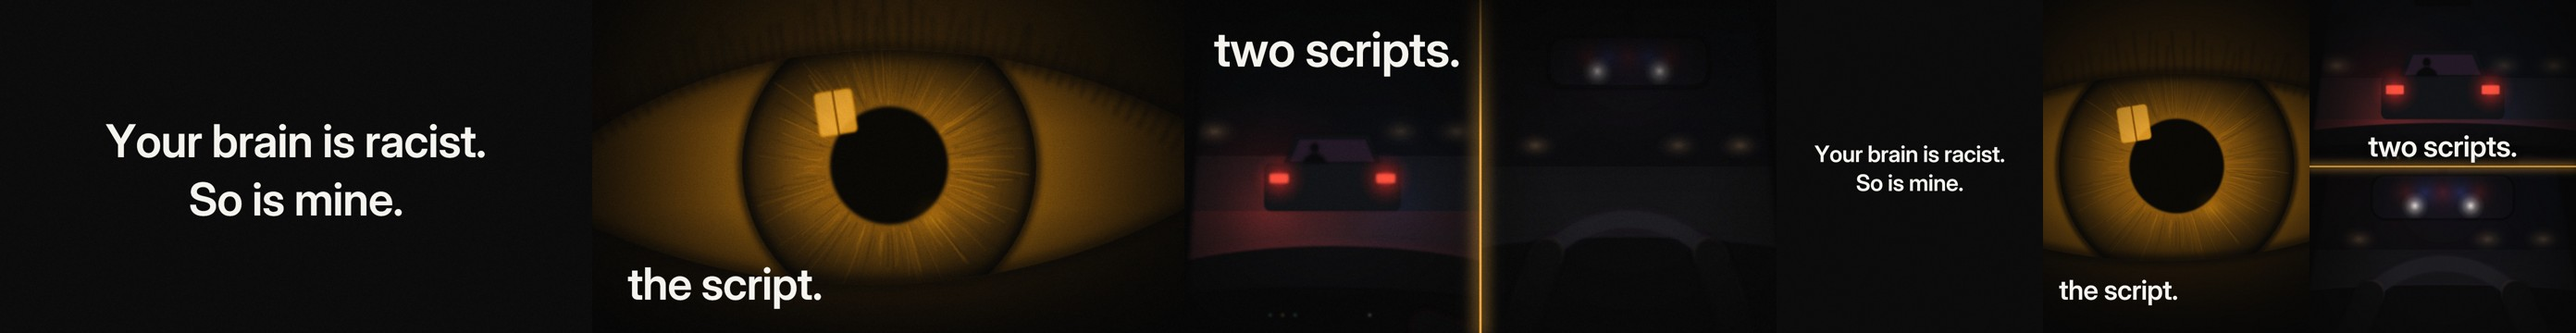
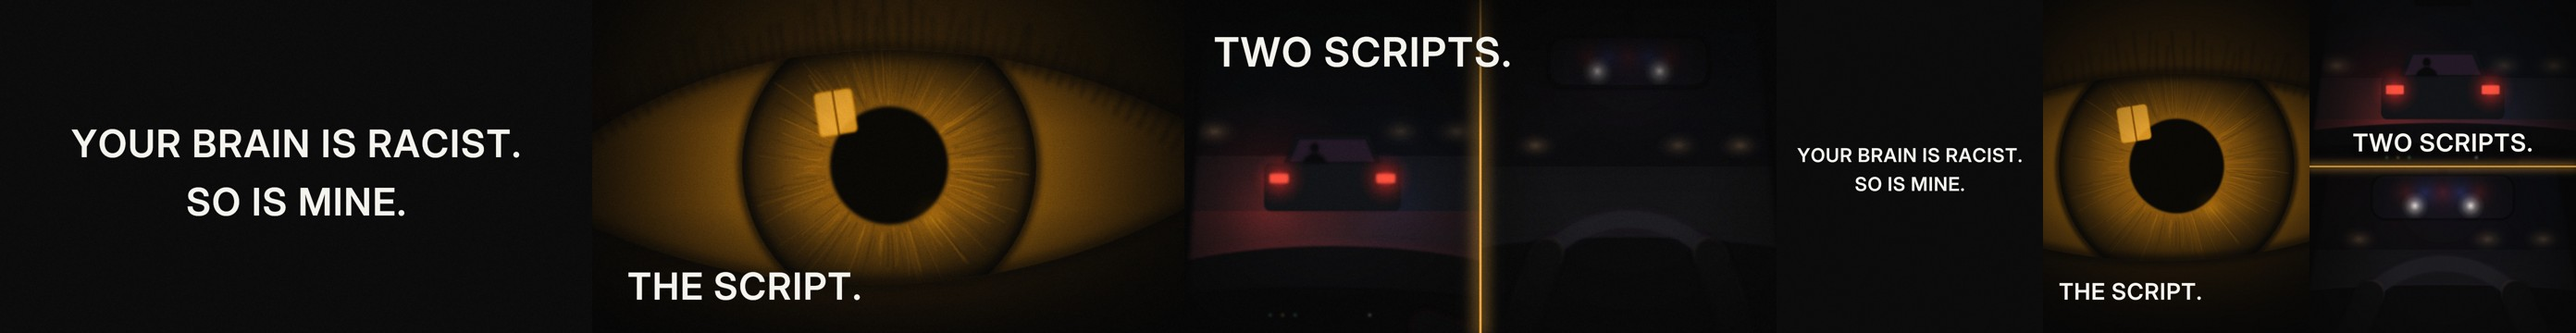
Expressive narration builder (Chatterbox, paragraph groups, per-group word check); all-caps thumbnails
Claude-Session: https://claude.ai/code/session_01SHZmJwu3tDbQB5WLVrzHqV

diff --git a/productions/your-brain-is-racist/src/narrate.py b/productions/your-brain-is-racist/src/narrate.py
@@ -94,6 +94,7 @@ def voice_chain(a):
 def main():
     ap = argparse.ArgumentParser(); ap.add_argument("cmd"); ap.add_argument("--voice", default="am_michael")
     ap.add_argument("--speed", type=float, default=0.96); ap.add_argument("--wav"); ap.add_argument("--out")
+    ap.add_argument("--ref", default=f"{ROOT}/audio/auditions/am_michael.wav"); ap.add_argument("--exag", type=float, default=0.7); ap.add_argument("--cfg", type=float, default=0.25)
     A = ap.parse_args(); os.makedirs(f"{ROOT}/audio/auditions", exist_ok=True)
     if A.cmd == "audition":
         k = kokoro(); ids = ["hook1", "hook2", "hook3", "job1"] + [f"ts{i}" for i in range(1, 8)]
@@ -124,6 +125,51 @@ def main():
         sf.write(f"{ROOT}/audio/narration_dry.wav", a.astype(np.float32), SR)
         tl["duration"] = round(len(a) / SR, 3); tl["word_match"] = round(mat / tot, 4)
         print("duration", tl["duration"], "word match", tl["word_match"])
+    if A.cmd == "build_cb":
+        # Expressive read: Chatterbox (Resemble AI, MIT), run offline on CPU. Lines are read in paragraph groups so the
+        # voice carries a thought across sentences; each group is checked word-for-word and re-taken if it drifts.
+        import torch, hashlib
+        torch.set_num_threads(4)
+        from chatterbox.tts import ChatterboxTTS
+        cb = ChatterboxTTS.from_pretrained(device="cpu")
+        cache = os.environ.get("CB_CACHE", "/tmp/claude-0/-home-user-VideoEdit/dea1a155-7f9b-5d5a-9ed6-2efb365ee1a7/scratchpad/cb_groups"); os.makedirs(cache, exist_ok=True)
+        groups = [[]]; wc = 0
+        for L in LINES:
+            groups[-1].append(L); wc += len(L[1].split())
+            if L[2] >= 0.6 or wc >= 42: groups.append([]); wc = 0
+        groups = [g for g in groups if g]
+        parts = []; t = 0.0; tot = mat = 0; log = []
+        for gi, g in enumerate(groups):
+            text = " ".join(x[1] for x in g); nw = len(text.split())
+            key = hashlib.md5(f"{text}|{A.ref}|{A.exag}|{A.cfg}".encode()).hexdigest()[:10]; fn = f"{cache}/{gi:03d}_{key}.npy"
+            if os.path.exists(fn): a = np.load(fn)
+            else:
+                best = None
+                for seed in (11, 23, 37, 53):
+                    torch.manual_seed(seed)
+                    w = cb.generate(text, audio_prompt_path=A.ref, exaggeration=A.exag, cfg_weight=A.cfg, temperature=0.8).squeeze().numpy()
+                    w = resample_poly(w.astype(np.float64), SR, cb.sr)
+                    idx = np.where(np.abs(w) > max(1e-3, np.abs(w).max() * 0.02))[0]
+                    w = w[max(0, idx[0] - int(0.02 * SR)): min(len(w), idx[-1] + int(0.08 * SR))]
+                    _, m_ = align_line(text, whisper_words(wm, w), len(w) / SR); score = m_ / nw; wpm = nw / (len(w) / SR) * 60
+                    ok = score >= 0.93 and 105 <= wpm <= 235
+                    if best is None or score > best[0]: best = (score, w, seed, wpm)
+                    if ok: break
+                a = best[1]; np.save(fn, a); log.append((gi, best[2], round(best[0], 2), round(best[3])))
+                print("group", gi, "/", len(groups), "seed", best[2], "match", round(best[0], 2), "wpm", round(best[3]), flush=True)
+            f = int(0.012 * SR); a = a.copy(); a[:f] *= np.linspace(0, 1, f); a[-f:] *= np.linspace(1, 0, f)
+            a = a / (np.sqrt(np.mean(a[np.abs(a) > 0.01] ** 2)) + 1e-9) * 0.09            # same loudness for every group
+            dur = len(a) / SR; words, m_ = align_line(text, whisper_words(wm, a), dur); tot += len(words); mat += m_; k = 0
+            for lid, ltext, gap in g:
+                n = len(ltext.split()); seg = words[k:k + n]; k += n
+                for w_ in seg: w_["s"] = round(w_["s"] + t, 3); w_["e"] = round(w_["e"] + t, 3)
+                tl["lines"].append({"id": lid, "text": ltext, "s": seg[0]["s"], "e": seg[-1]["e"], "gap": gap, "words": seg})
+            gap = g[-1][2]; parts += [a, np.zeros(int(round(gap * SR)))]; t += dur + int(round(gap * SR)) / SR
+        a = voice_chain(np.concatenate(parts))
+        sf.write(f"{ROOT}/audio/narration_dry.wav", a.astype(np.float32), SR)
+        tl["voice"] = f"chatterbox ref={os.path.basename(A.ref)} exag={A.exag} cfg={A.cfg}"; tl["duration"] = round(len(a) / SR, 3); tl["word_match"] = round(mat / tot, 4)
+        print("duration", tl["duration"], "word match", tl["word_match"], "groups", len(groups))
+        json.dump(tl, open(f"{ROOT}/timeline.json", "w"), indent=0); return
     if A.cmd == "align":
         # One continuous read (Jason's). Recognise every word, then map the script onto it line by line.
         a, sr = sf.read(A.wav)

diff --git a/productions/your-brain-is-racist/src/thumbs.py b/productions/your-brain-is-racist/src/thumbs.py
@@ -13,6 +13,7 @@ def done(out, c, W, H, name):
     Grain(W, H).draw(c, 0); out.makeImageSnapshot().save(f"{ROOT}/thumbnails/{name}_{W}x{H}.png", skia.kPNG)
 for W, H in ((1280, 720), (1080, 1350)):
     tall = H > W; u = W / 1280 if not tall else W / 1080
+    import gfx; gfx.BOUNDS[0], gfx.BOUNDS[1] = W * 0.04, W * 0.96
     out, c = base(W, H); sz = (98 if not tall else 92) * u                       # 1: the hook, no image
     draw_text(c, "Your brain is racist.", W / 2, H / 2 - sz * 0.2, sz, 600); draw_text(c, "So is mine.", W / 2, H / 2 + sz * 1.08, sz, 600)
     done(out, c, W, H, "01_hook")
@@ -27,7 +28,7 @@ for W, H in ((1280, 720), (1080, 1350)):
     sz = (104 if not tall else 118) * u
     if not tall:
         linear(c, skia.Rect.MakeLTRB(0, 0, W, H * 0.4), (0, 0), (0, H * 0.4), [col((0, 0, 0), 0.8), col((0, 0, 0), 0)])
-        draw_text(c, "two scripts.", W * 0.05, H * 0.2, sz, 600, WHITE, align="left")
+        draw_text(c, "two scripts.", W * 0.05, H * 0.2, sz, 600, WHITE, align="left", fit=W * 0.41)
     else:
         draw_text(c, "two scripts.", W / 2, H * 0.455, sz, 600, (0, 0, 0), 0.7, blur=14); draw_text(c, "two scripts.", W / 2, H * 0.455, sz, 600, WHITE)
     done(out, c, W, H, "03_two_scripts")
